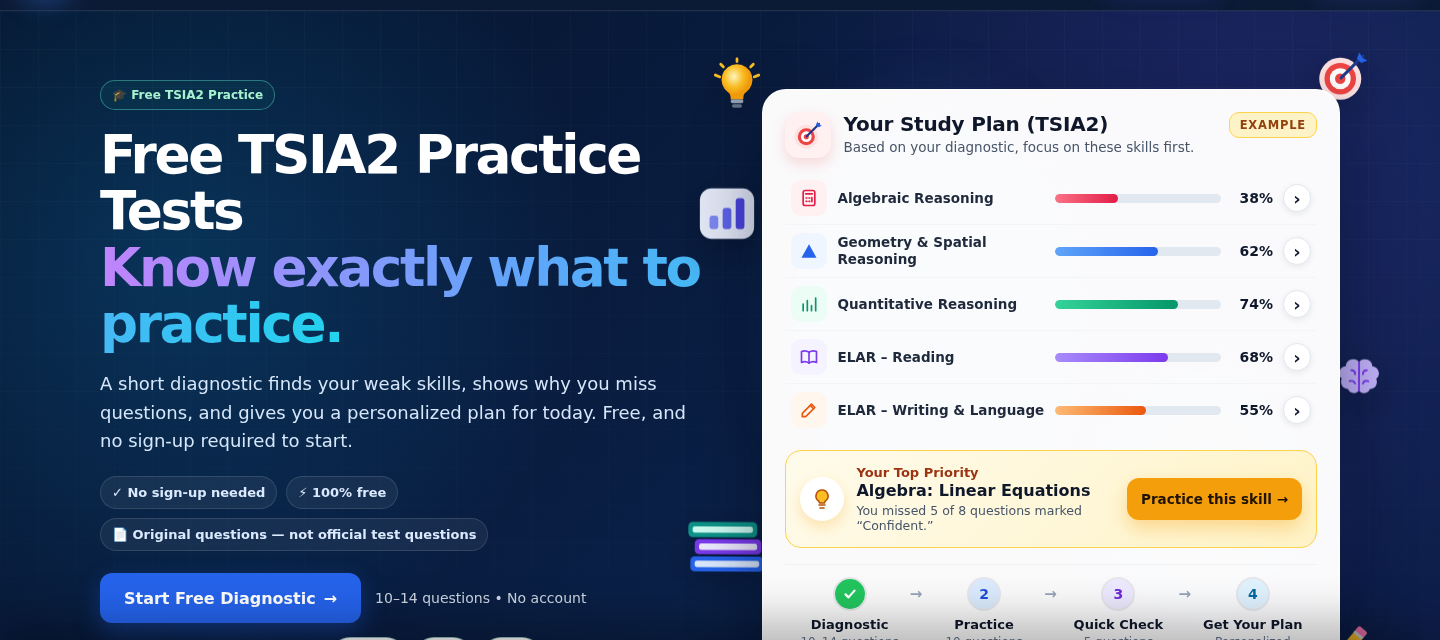
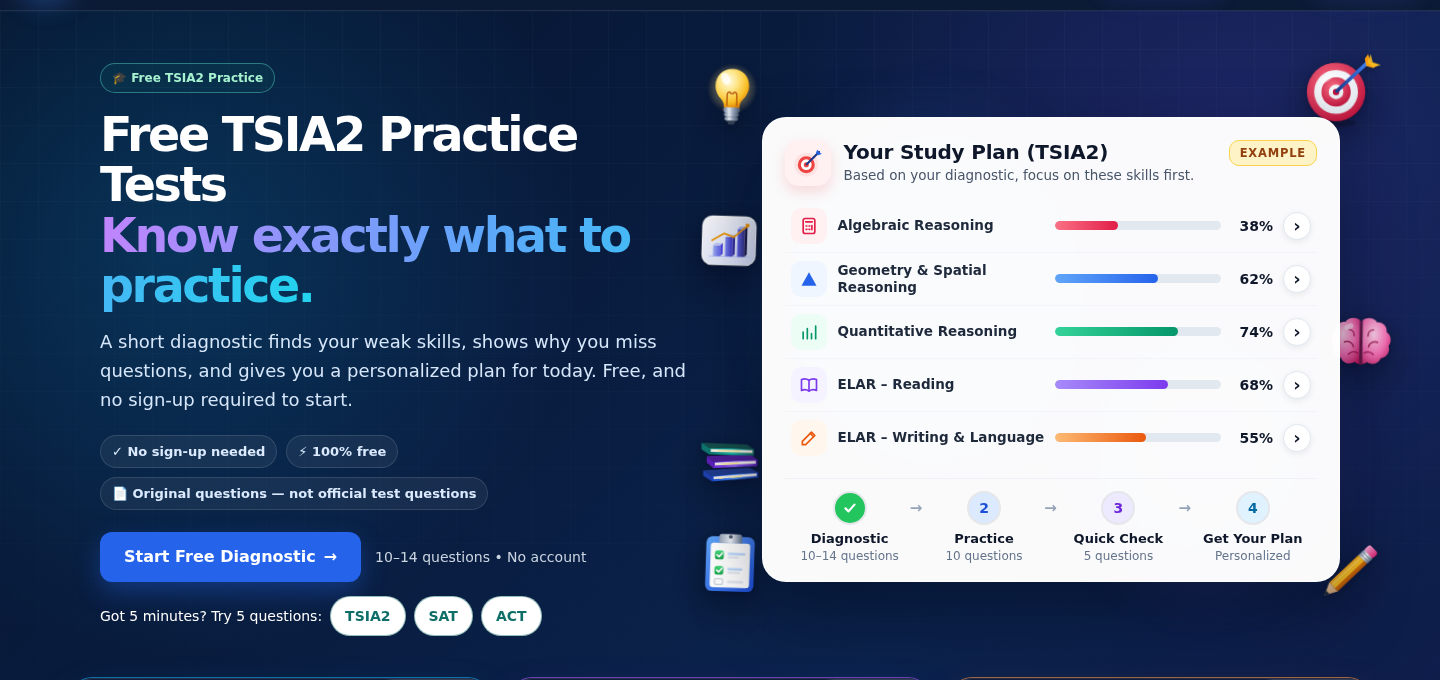
Add files via upload

diff --git a/index.html b/index.html
@@ -1721,6 +1721,33 @@ button.tsipp-wrow:hover{background:#f8fafc}
   .tsipp-hup,.tsipp-planwrap,.tsipp-planwrap *,.tsipp-planwrap *::before,.tsipp-planwrap *::after{animation:none!important;transition:none!important}
 }
 @media (min-width:980px){.tsipp-heroTop .v10HeroCopy h1{font-size:clamp(38px,3.7vw,54px)!important}}
+/* hero icons v2 (realistic) + timing without the priority box */
+.tsipp-dk{filter:drop-shadow(0 14px 22px rgba(2,6,23,.45)) drop-shadow(0 2px 4px rgba(2,6,23,.3))}
+.dk-bulb{width:64px;left:-58px;top:-26px}
+.dk-chart{width:86px;left:-84px;top:112px}
+.dk-books{width:118px;left:-100px;bottom:92px}
+.dk-check{width:72px;left:-62px;bottom:-14px}
+.dk-target{width:78px;right:-40px;top:-30px}
+.dk-pencil{width:74px;right:-44px;bottom:-12px}
+.dk-brain{width:66px;right:-54px;top:44%}
+@media (max-width:1180px){.dk-bulb{left:-30px;top:-34px}.dk-check{left:-28px;bottom:-24px}.dk-target{right:-22px}.dk-pencil{right:-26px}}
+@media (prefers-reduced-motion:no-preference){
+  .tsipp-planwrap .tsipp-path .is-1{animation-delay:1s}.tsipp-planwrap .tsipp-path .is-2{animation-delay:1.12s}
+  .tsipp-planwrap .tsipp-path .is-3{animation-delay:1.24s}.tsipp-planwrap .tsipp-path .is-4{animation-delay:1.36s}
+  .tsipp-planwrap .tsipp-path .is-1 .tsipp-dot{animation-delay:1.6s}.tsipp-planwrap .tsipp-path .is-2 .tsipp-dot{animation-delay:1.85s}
+  .tsipp-planwrap .tsipp-path .is-3 .tsipp-dot{animation-delay:2.1s}.tsipp-planwrap .tsipp-path .is-4 .tsipp-dot{animation-delay:2.35s}
+}
+.dk-bulb{left:-40px}
+.dk-chart{width:70px;left:-50px;top:150px}
+.dk-books{width:100px;left:-64px;bottom:96px}
+.dk-check{left:-46px}
+@media (min-width:980px){.tsipp-heroTop .v10HeroCopy h1{font-size:clamp(36px,3.3vw,50px)!important}}
+.dk-books{left:-52px}
+.dk-bulb{width:56px;left:-58px;top:-18px}
+.dk-chart{width:58px;left:-62px;top:132px}
+.dk-books{width:66px;left:-64px;bottom:118px}
+.dk-check{width:56px;left:-60px;bottom:4px}
+@media (max-width:1400px){.dk-target{right:-14px;width:64px}.dk-pencil{right:-16px;width:60px}.dk-brain{display:none}}
 </style>
 <style id="tsipp-phase1-hide">#student-dashboard,#smart-learning,#my-results,#my-progress,#test-date-center,#study-plan,#mastery-path,.v10Why{display:none!important}</style>
 </head>
@@ -1862,13 +1889,80 @@ function spConsole(method){
  </div>
  <aside class="tsipp-planwrap" aria-label="Example of a TSIA2 study plan">
   <div class="tsipp-deco" aria-hidden="true">
-   <svg class="tsipp-dk dk-bulb" viewBox="0 0 64 64"><defs><radialGradient id="dkb" cx=".4" cy=".35"><stop offset="0" stop-color="#fff7c2"/><stop offset=".6" stop-color="#fbbf24"/><stop offset="1" stop-color="#f59e0b"/></radialGradient></defs><path d="M32 8a17 17 0 0 0-10 30.8c2 1.5 3 3.4 3 5.7V47h14v-2.5c0-2.3 1-4.2 3-5.7A17 17 0 0 0 32 8z" fill="url(#dkb)"/><rect x="25" y="47" width="14" height="4" rx="2" fill="#94a3b8"/><rect x="26.5" y="52" width="11" height="4" rx="2" fill="#64748b"/><path d="M8 20l5 2M56 20l-5 2M32 2v3M14 8l3 3M50 8l-3 3" stroke="#fbbf24" stroke-width="3" stroke-linecap="round"/></svg>
-   <svg class="tsipp-dk dk-chart" viewBox="0 0 64 64"><rect x="4" y="6" width="56" height="52" rx="12" fill="#eef2ff"/><rect x="14" y="34" width="9" height="14" rx="3" fill="#818cf8"/><rect x="27.5" y="26" width="9" height="22" rx="3" fill="#6366f1"/><rect x="41" y="16" width="9" height="32" rx="3" fill="#4f46e5"/></svg>
-   <svg class="tsipp-dk dk-books" viewBox="0 0 80 64"><rect x="6" y="40" width="68" height="14" rx="4" fill="#2563eb"/><rect x="10" y="44" width="60" height="6" rx="2" fill="#dbeafe"/><rect x="10" y="24" width="62" height="14" rx="4" fill="#7c3aed"/><rect x="14" y="28" width="54" height="6" rx="2" fill="#ede9fe"/><rect x="4" y="8" width="64" height="14" rx="4" fill="#0d9488"/><rect x="8" y="12" width="56" height="6" rx="2" fill="#ccfbf1"/></svg>
-   <svg class="tsipp-dk dk-target" viewBox="0 0 64 64"><circle cx="30" cy="34" r="24" fill="#fee2e2"/><circle cx="30" cy="34" r="18" fill="#ef4444"/><circle cx="30" cy="34" r="12" fill="#fff"/><circle cx="30" cy="34" r="6" fill="#ef4444"/><path d="M31 33L56 8" stroke="#1e3a8a" stroke-width="3.5" stroke-linecap="round"/><path d="M52 4l3 6 6 3-7 3-5-5z" fill="#2563eb"/></svg>
-   <svg class="tsipp-dk dk-check" viewBox="0 0 72 56"><rect x="2" y="2" width="68" height="52" rx="10" fill="#f8fafc"/><rect x="10" y="12" width="12" height="12" rx="3" fill="#22c55e"/><path d="M12.5 18l2.5 2.5 5-5" stroke="#fff" stroke-width="2.4" fill="none" stroke-linecap="round"/><rect x="28" y="15" width="34" height="5" rx="2.5" fill="#bfdbfe"/><rect x="10" y="32" width="12" height="12" rx="3" fill="#22c55e"/><path d="M12.5 38l2.5 2.5 5-5" stroke="#fff" stroke-width="2.4" fill="none" stroke-linecap="round"/><rect x="28" y="35" width="28" height="5" rx="2.5" fill="#bfdbfe"/></svg>
-   <svg class="tsipp-dk dk-pencil" viewBox="0 0 64 64"><g transform="rotate(40 32 32)"><rect x="26" y="4" width="12" height="42" rx="2" fill="#fbbf24"/><rect x="26" y="4" width="12" height="7" rx="2" fill="#f472b6"/><rect x="26" y="11" width="12" height="3" fill="#cbd5e1"/><path d="M26 46h12l-6 12z" fill="#fde68a"/><path d="M30 54h4l-2 4z" fill="#334155"/></g></svg>
-   <svg class="tsipp-dk dk-brain" viewBox="0 0 64 64"><path d="M24 10a9 9 0 0 0-9 9 9 9 0 0 0-5 16 9 9 0 0 0 8 13 8 8 0 0 0 14 2V14a8 8 0 0 0-8-4zM40 10a9 9 0 0 1 9 9 9 9 0 0 1 5 16 9 9 0 0 1-8 13 8 8 0 0 1-14 2V14a8 8 0 0 1 8-4z" fill="#c4b5fd"/><path d="M32 14v36M22 24c3 0 5 2 5 5M42 24c-3 0-5 2-5 5M20 38c3-1 6 0 7 3M44 38c-3-1-6 0-7 3" stroke="#7c3aed" stroke-width="2.4" fill="none" stroke-linecap="round"/></svg>
+   <svg class="tsipp-dk dk-bulb" viewBox="0 0 80 96"><defs>
+    <radialGradient id="dkBulbGlass" cx=".38" cy=".3" r=".75"><stop offset="0" stop-color="#fffbe6"/><stop offset=".35" stop-color="#fde68a"/><stop offset=".75" stop-color="#fbbf24"/><stop offset="1" stop-color="#d97706"/></radialGradient>
+    <radialGradient id="dkBulbGlow" cx=".5" cy=".5" r=".5"><stop offset="0" stop-color="#fde68a" stop-opacity=".75"/><stop offset="1" stop-color="#fde68a" stop-opacity="0"/></radialGradient>
+    <linearGradient id="dkBulbMetal" x1="0" x2="1"><stop offset="0" stop-color="#64748b"/><stop offset=".35" stop-color="#e2e8f0"/><stop offset=".6" stop-color="#94a3b8"/><stop offset="1" stop-color="#475569"/></linearGradient></defs>
+    <circle cx="40" cy="36" r="36" fill="url(#dkBulbGlow)"/>
+    <path d="M40 8C26 8 16 18.5 16 32c0 8.6 4.3 14.6 8.6 19.4 2.6 2.9 4.2 6 4.2 9.6V64h22.4v-3c0-3.6 1.6-6.7 4.2-9.6C59.7 46.6 64 40.6 64 32 64 18.5 54 8 40 8z" fill="url(#dkBulbGlass)"/>
+    <path d="M33 60V46c0-3 2-5 4-5M47 60V46c0-3-2-5-4-5M37 41c1 3 5 3 6 0" fill="none" stroke="#b45309" stroke-width="1.8" stroke-linecap="round"/>
+    <ellipse cx="30" cy="22" rx="6" ry="9" fill="#fff" opacity=".75" transform="rotate(-25 30 22)"/>
+    <rect x="28" y="63" width="24" height="7" rx="3" fill="url(#dkBulbMetal)"/><rect x="29" y="70" width="22" height="6" rx="3" fill="url(#dkBulbMetal)"/><rect x="30" y="76" width="20" height="6" rx="3" fill="url(#dkBulbMetal)"/>
+    <path d="M34 82h12l-2 5h-8z" fill="#334155"/>
+   </svg>
+   <svg class="tsipp-dk dk-chart" viewBox="0 0 96 88"><defs>
+    <linearGradient id="dkCard" x1="0" y1="0" x2="1" y2="1"><stop offset="0" stop-color="#ffffff"/><stop offset="1" stop-color="#e0e7ff"/></linearGradient>
+    <linearGradient id="dkBarA" x1="0" x2="1"><stop offset="0" stop-color="#a5b4fc"/><stop offset="1" stop-color="#6366f1"/></linearGradient>
+    <linearGradient id="dkBarB" x1="0" x2="1"><stop offset="0" stop-color="#818cf8"/><stop offset="1" stop-color="#4338ca"/></linearGradient>
+    <linearGradient id="dkBarC" x1="0" x2="1"><stop offset="0" stop-color="#6366f1"/><stop offset="1" stop-color="#312e81"/></linearGradient></defs>
+    <rect x="4" y="4" width="88" height="80" rx="16" fill="url(#dkCard)" stroke="#fff" stroke-width="2"/>
+    <path d="M16 70h64" stroke="#c7d2fe" stroke-width="2" stroke-linecap="round"/>
+    <path d="M22 52h12v18H22z" fill="url(#dkBarA)"/><path d="M22 52l4-4h12l-4 4z" fill="#c7d2fe"/><path d="M34 52l4-4v18l-4 4z" fill="#4f46e5"/>
+    <path d="M42 38h12v32H42z" fill="url(#dkBarB)"/><path d="M42 38l4-4h12l-4 4z" fill="#c7d2fe"/><path d="M54 38l4-4v32l-4 4z" fill="#3730a3"/>
+    <path d="M62 24h12v46H62z" fill="url(#dkBarC)"/><path d="M62 24l4-4h12l-4 4z" fill="#a5b4fc"/><path d="M74 24l4-4v46l-4 4z" fill="#1e1b4b"/>
+    <path d="M20 44l20-12 16 6 22-20" fill="none" stroke="#f59e0b" stroke-width="3" stroke-linecap="round" stroke-linejoin="round"/><circle cx="78" cy="18" r="3.5" fill="#f59e0b"/>
+   </svg>
+   <svg class="tsipp-dk dk-books" viewBox="0 0 120 96"><defs>
+    <linearGradient id="dkPages" x1="0" y1="0" x2="0" y2="1"><stop offset="0" stop-color="#fffdf5"/><stop offset="1" stop-color="#e7e2d3"/></linearGradient>
+    <linearGradient id="dkBk1" x1="0" x2="1"><stop offset="0" stop-color="#1d4ed8"/><stop offset=".5" stop-color="#3b82f6"/><stop offset="1" stop-color="#1e40af"/></linearGradient>
+    <linearGradient id="dkBk2" x1="0" x2="1"><stop offset="0" stop-color="#6d28d9"/><stop offset=".5" stop-color="#8b5cf6"/><stop offset="1" stop-color="#5b21b6"/></linearGradient>
+    <linearGradient id="dkBk3" x1="0" x2="1"><stop offset="0" stop-color="#0f766e"/><stop offset=".5" stop-color="#14b8a6"/><stop offset="1" stop-color="#115e59"/></linearGradient></defs>
+    <path d="M10 70l84-6 16 8-84 8z" fill="#1e3a8a"/><path d="M10 70h0l16 10v10L10 80z" fill="#1e40af"/><path d="M26 80l84-8v10l-84 8z" fill="url(#dkBk1)"/><path d="M29 81.5l78-7.3v4.6l-78 7.3z" fill="url(#dkPages)"/><path d="M40 84l6-.6M60 82.2l20-1.9" stroke="#fde68a" stroke-width="2"/>
+    <path d="M16 44l80 -4 12 9-80 5z" fill="#4c1d95"/><path d="M16 44l12 10v12L16 56z" fill="#5b21b6"/><path d="M28 54l80-5v12l-80 5z" fill="url(#dkBk2)"/><path d="M31 56l74-4.6v5l-74 4.6z" fill="url(#dkPages)"/><path d="M44 58.5l30-1.9" stroke="#fde68a" stroke-width="2"/>
+    <path d="M6 20l82 2 14 8-82-1z" fill="#134e4a"/><path d="M6 20l14 9v12L6 32z" fill="#0f766e"/><path d="M20 29l82 1v12l-82-1z" fill="url(#dkBk3)"/><path d="M23 31.5l76 .8v5l-76-.8z" fill="url(#dkPages)"/><path d="M36 34l40 .4" stroke="#fde68a" stroke-width="2"/>
+   </svg>
+   <svg class="tsipp-dk dk-check" viewBox="0 0 88 100"><defs>
+    <linearGradient id="dkBoard" x1="0" y1="0" x2="1" y2="1"><stop offset="0" stop-color="#60a5fa"/><stop offset="1" stop-color="#1d4ed8"/></linearGradient>
+    <linearGradient id="dkClip" x1="0" x2="1"><stop offset="0" stop-color="#94a3b8"/><stop offset=".5" stop-color="#f1f5f9"/><stop offset="1" stop-color="#64748b"/></linearGradient>
+    <linearGradient id="dkTick" x1="0" y1="0" x2="0" y2="1"><stop offset="0" stop-color="#4ade80"/><stop offset="1" stop-color="#16a34a"/></linearGradient></defs>
+    <rect x="6" y="10" width="76" height="86" rx="10" fill="url(#dkBoard)"/>
+    <rect x="13" y="20" width="62" height="70" rx="5" fill="#fff"/>
+    <path d="M30 6h28a4 4 0 0 1 4 4v10H26V10a4 4 0 0 1 4-4z" fill="url(#dkClip)"/><circle cx="44" cy="10" r="3" fill="#475569"/>
+    <rect x="20" y="32" width="14" height="14" rx="4" fill="url(#dkTick)"/><path d="M23.5 39l3 3 5-6" stroke="#fff" stroke-width="2.6" fill="none" stroke-linecap="round" stroke-linejoin="round"/>
+    <rect x="40" y="35" width="28" height="4" rx="2" fill="#bfdbfe"/><rect x="40" y="41" width="18" height="3" rx="1.5" fill="#e2e8f0"/>
+    <rect x="20" y="56" width="14" height="14" rx="4" fill="url(#dkTick)"/><path d="M23.5 63l3 3 5-6" stroke="#fff" stroke-width="2.6" fill="none" stroke-linecap="round" stroke-linejoin="round"/>
+    <rect x="40" y="59" width="24" height="4" rx="2" fill="#bfdbfe"/><rect x="40" y="65" width="20" height="3" rx="1.5" fill="#e2e8f0"/>
+    <rect x="20.5" y="76.5" width="13" height="9" rx="3" fill="none" stroke="#cbd5e1" stroke-width="2"/><rect x="40" y="79" width="26" height="4" rx="2" fill="#e2e8f0"/>
+   </svg>
+   <svg class="tsipp-dk dk-target" viewBox="0 0 96 96"><defs>
+    <radialGradient id="dkTgRed" cx=".4" cy=".35" r=".7"><stop offset="0" stop-color="#fb7185"/><stop offset="1" stop-color="#be123c"/></radialGradient>
+    <radialGradient id="dkTgWhite" cx=".4" cy=".35" r=".7"><stop offset="0" stop-color="#ffffff"/><stop offset="1" stop-color="#e2e8f0"/></radialGradient>
+    <linearGradient id="dkShaft" x1="0" x2="1"><stop offset="0" stop-color="#1e3a8a"/><stop offset="1" stop-color="#3b82f6"/></linearGradient></defs>
+    <ellipse cx="42" cy="88" rx="26" ry="5" fill="#020617" opacity=".25"/>
+    <circle cx="42" cy="50" r="36" fill="url(#dkTgRed)"/><circle cx="42" cy="50" r="27" fill="url(#dkTgWhite)"/><circle cx="42" cy="50" r="18" fill="url(#dkTgRed)"/><circle cx="42" cy="50" r="9" fill="url(#dkTgWhite)"/><circle cx="42" cy="50" r="4" fill="#be123c"/>
+    <ellipse cx="30" cy="34" rx="8" ry="4" fill="#fff" opacity=".35" transform="rotate(-35 30 34)"/>
+    <path d="M43 49L80 12" stroke="url(#dkShaft)" stroke-width="4.5" stroke-linecap="round"/>
+    <path d="M76 8l4-6 3 10 10 3-6 4-9-2z" fill="#f59e0b"/><path d="M80 12l3-10 3 10 10 3-10 3z" fill="#fbbf24" opacity=".85"/>
+   </svg>
+   <svg class="tsipp-dk dk-pencil" viewBox="0 0 96 96"><defs>
+    <linearGradient id="dkPenBody" x1="0" x2="1"><stop offset="0" stop-color="#f59e0b"/><stop offset=".33" stop-color="#fcd34d"/><stop offset=".34" stop-color="#fbbf24"/><stop offset=".66" stop-color="#fbbf24"/><stop offset=".67" stop-color="#d97706"/><stop offset="1" stop-color="#b45309"/></linearGradient>
+    <linearGradient id="dkFerrule" x1="0" x2="1"><stop offset="0" stop-color="#94a3b8"/><stop offset=".45" stop-color="#f8fafc"/><stop offset="1" stop-color="#64748b"/></linearGradient>
+    <linearGradient id="dkWood" x1="0" x2="1"><stop offset="0" stop-color="#f5d0a9"/><stop offset="1" stop-color="#d6a46b"/></linearGradient>
+    <linearGradient id="dkEraser" x1="0" x2="1"><stop offset="0" stop-color="#f9a8d4"/><stop offset="1" stop-color="#db2777"/></linearGradient></defs>
+    <g transform="rotate(45 48 48)">
+     <rect x="40" y="0" width="16" height="11" rx="4" fill="url(#dkEraser)"/>
+     <rect x="40" y="10" width="16" height="10" fill="url(#dkFerrule)"/><path d="M40 13h16M40 17h16" stroke="#64748b" stroke-width="1"/>
+     <rect x="40" y="20" width="16" height="52" fill="url(#dkPenBody)"/>
+     <path d="M40 72h16l-8 16z" fill="url(#dkWood)"/><path d="M45 82h6l-3 6z" fill="#1e293b"/>
+    </g>
+   </svg>
+   <svg class="tsipp-dk dk-brain" viewBox="0 0 96 88"><defs>
+    <radialGradient id="dkBrain" cx=".4" cy=".35" r=".8"><stop offset="0" stop-color="#fbcfe8"/><stop offset=".55" stop-color="#f472b6"/><stop offset="1" stop-color="#be185d"/></radialGradient></defs>
+    <path d="M46 10c-6-5-17-4-21 3-8-1-15 6-14 14-7 4-8 14-3 20-3 8 2 17 11 18 3 8 13 11 20 6 3 2 5 3 7 3V13c0-1 0-2 0-3z" fill="url(#dkBrain)"/>
+    <path d="M50 10c6-5 17-4 21 3 8-1 15 6 14 14 7 4 8 14 3 20 3 8-2 17-11 18-3 8-13 11-20 6-3 2-5 3-7 3V13c0-1 0-2 0-3z" fill="url(#dkBrain)"/>
+    <path d="M48 12v62M30 24c5 0 8 4 8 9M24 42c6-2 12 1 13 7M30 60c3-4 9-5 13-2M66 24c-5 0-8 4-8 9M72 42c-6-2-12 1-13 7M66 60c-3-4-9-5-13-2" fill="none" stroke="#9d174d" stroke-width="2.4" stroke-linecap="round" opacity=".75"/>
+    <ellipse cx="30" cy="20" rx="7" ry="4" fill="#fff" opacity=".45" transform="rotate(-25 30 20)"/>
+   </svg>
   </div>
   <div class="tsipp-plan-glow" aria-hidden="true"></div>
   <div class="tsipp-plan">
@@ -1884,11 +1978,6 @@ function spConsole(method){
     <li class="tsipp-pa" style="--d:0.75s"><button type="button" class="tsipp-prow is-violet" data-tsipp-area="read" aria-label="Practice ELAR – Reading"><span class="tsipp-pic"><svg viewBox="0 0 24 24"><path d="M3 5.5c3-1.3 6-1.3 9 .8 3-2.1 6-2.1 9-.8v13c-3-1.3-6-1.3-9 .8-3-2.1-6-2.1-9-.8z"/><path d="M12 6.3v13"/></svg></span><span class="tsipp-pname">ELAR – Reading</span><span class="tsipp-pbar"><i style="width:68%;--d:0.85s"></i></span><b data-to="68" data-suffix="%">68%</b><span class="tsipp-pgo" aria-hidden="true">›</span></button></li>
     <li class="tsipp-pa" style="--d:0.85s"><button type="button" class="tsipp-prow is-orange" data-tsipp-area="write" aria-label="Practice ELAR – Writing and Language"><span class="tsipp-pic"><svg viewBox="0 0 24 24"><path d="M4 20h4L19 9l-4-4L4 16z"/><path d="M13.5 6.5l4 4"/></svg></span><span class="tsipp-pname">ELAR – Writing &amp; Language</span><span class="tsipp-pbar"><i style="width:55%;--d:0.95s"></i></span><b data-to="55" data-suffix="%">55%</b><span class="tsipp-pgo" aria-hidden="true">›</span></button></li>
    </ul>
-   <div class="tsipp-prio tsipp-pa" style="--d:1s">
-    <span class="tsipp-prio-ic" aria-hidden="true"><svg viewBox="0 0 24 24"><path d="M9 18h6M10 21h4M12 3a6 6 0 0 0-3.5 10.9c.6.5 1 1.2 1 2.1h5c0-.9.4-1.6 1-2.1A6 6 0 0 0 12 3z"/></svg></span>
-    <div class="tsipp-prio-t"><small>Your Top Priority</small><b>Algebra: Linear Equations</b><span>You missed 5 of 8 questions marked “Confident.”</span></div>
-    <button type="button" class="tsipp-prio-btn" data-tsipp-area="linear">Practice this skill <span aria-hidden="true">→</span></button>
-   </div>
    <ol class="tsipp-path">
     <li class="is-1"><span class="tsipp-dot"><svg viewBox="0 0 24 24"><path d="M6 12.5l4 4 8-9"/></svg></span><b>Diagnostic</b><small>10–14 questions</small></li>
     <li class="is-2"><span class="tsipp-dot">2</span><b>Practice</b><small>10 questions</small></li>
